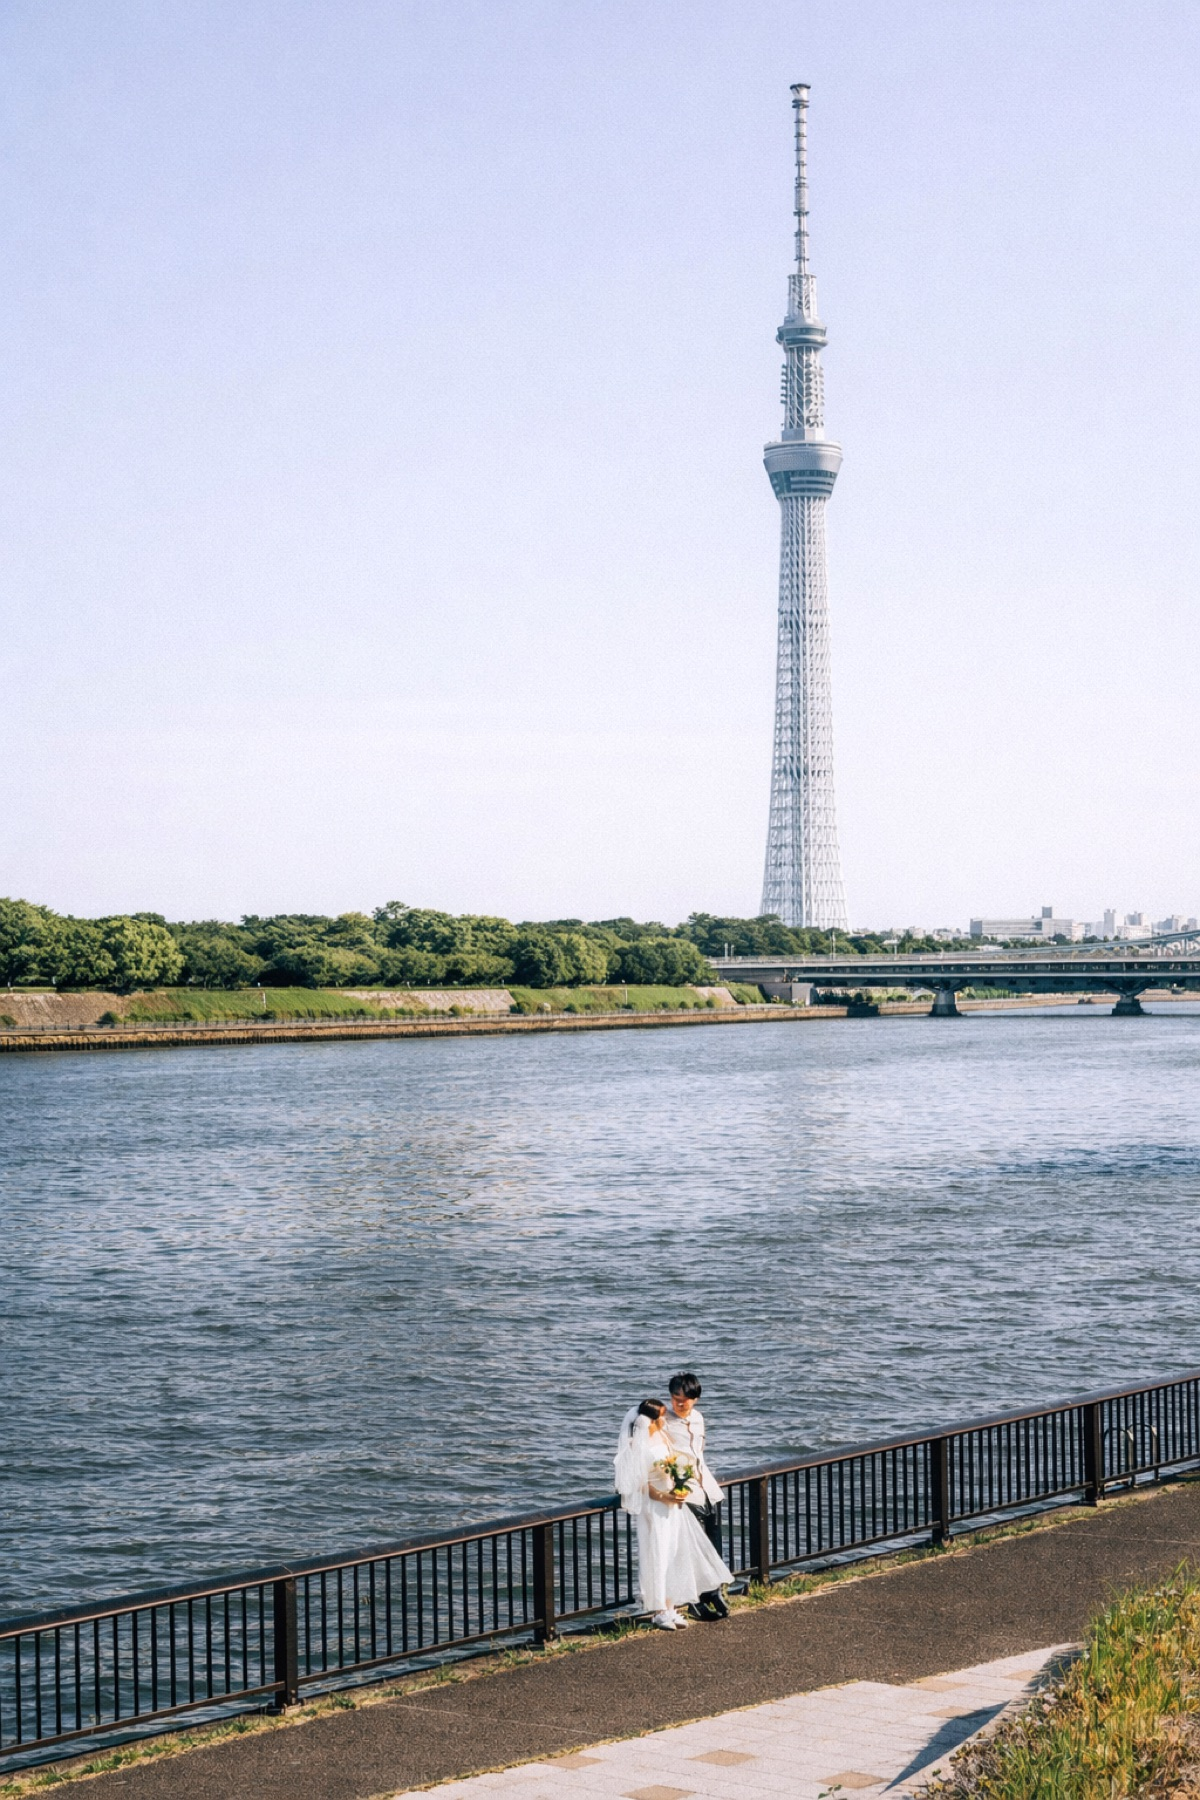
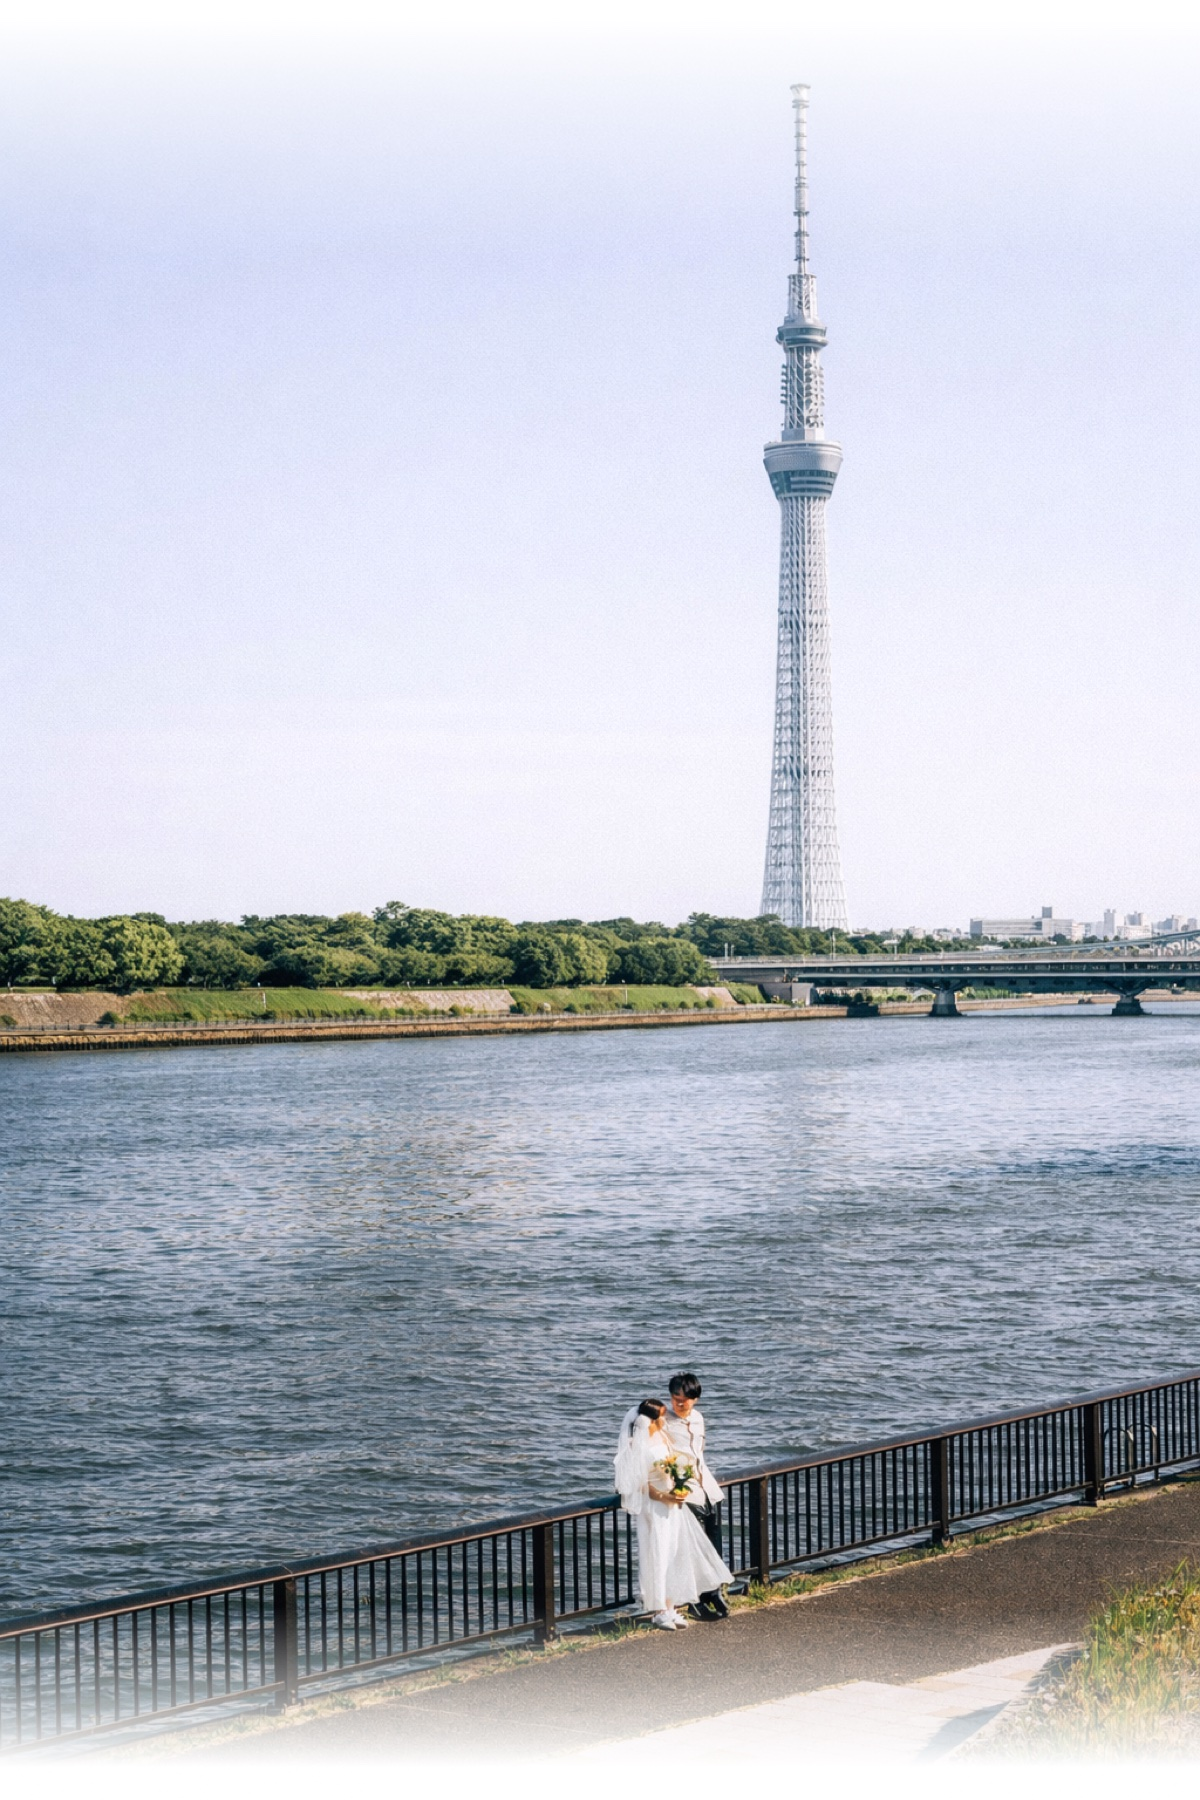
Footer 그라디언트 제거 + 블러 적용된 사진으로 교체

Changed region(s): [[0.0, 0.9022, 1.0, 1.0], [0.0, 0.0, 1.0, 0.1244]]

diff --git a/src/style.css b/src/style.css
@@ -580,27 +580,6 @@ section {
   overflow: hidden;
 }
 
-#footer::before {
-  content: '';
-  position: absolute;
-  top: 0;
-  left: 0;
-  right: 0;
-  height: 20%;
-  background: linear-gradient(to bottom, #faf9f6, transparent);
-  z-index: 1;
-}
-
-#footer::after {
-  content: '';
-  position: absolute;
-  bottom: 0;
-  left: 0;
-  right: 0;
-  height: 20%;
-  background: linear-gradient(to top, #faf9f6, transparent);
-  z-index: 1;
-}
 
 .footer-thanks {
   position: relative;
